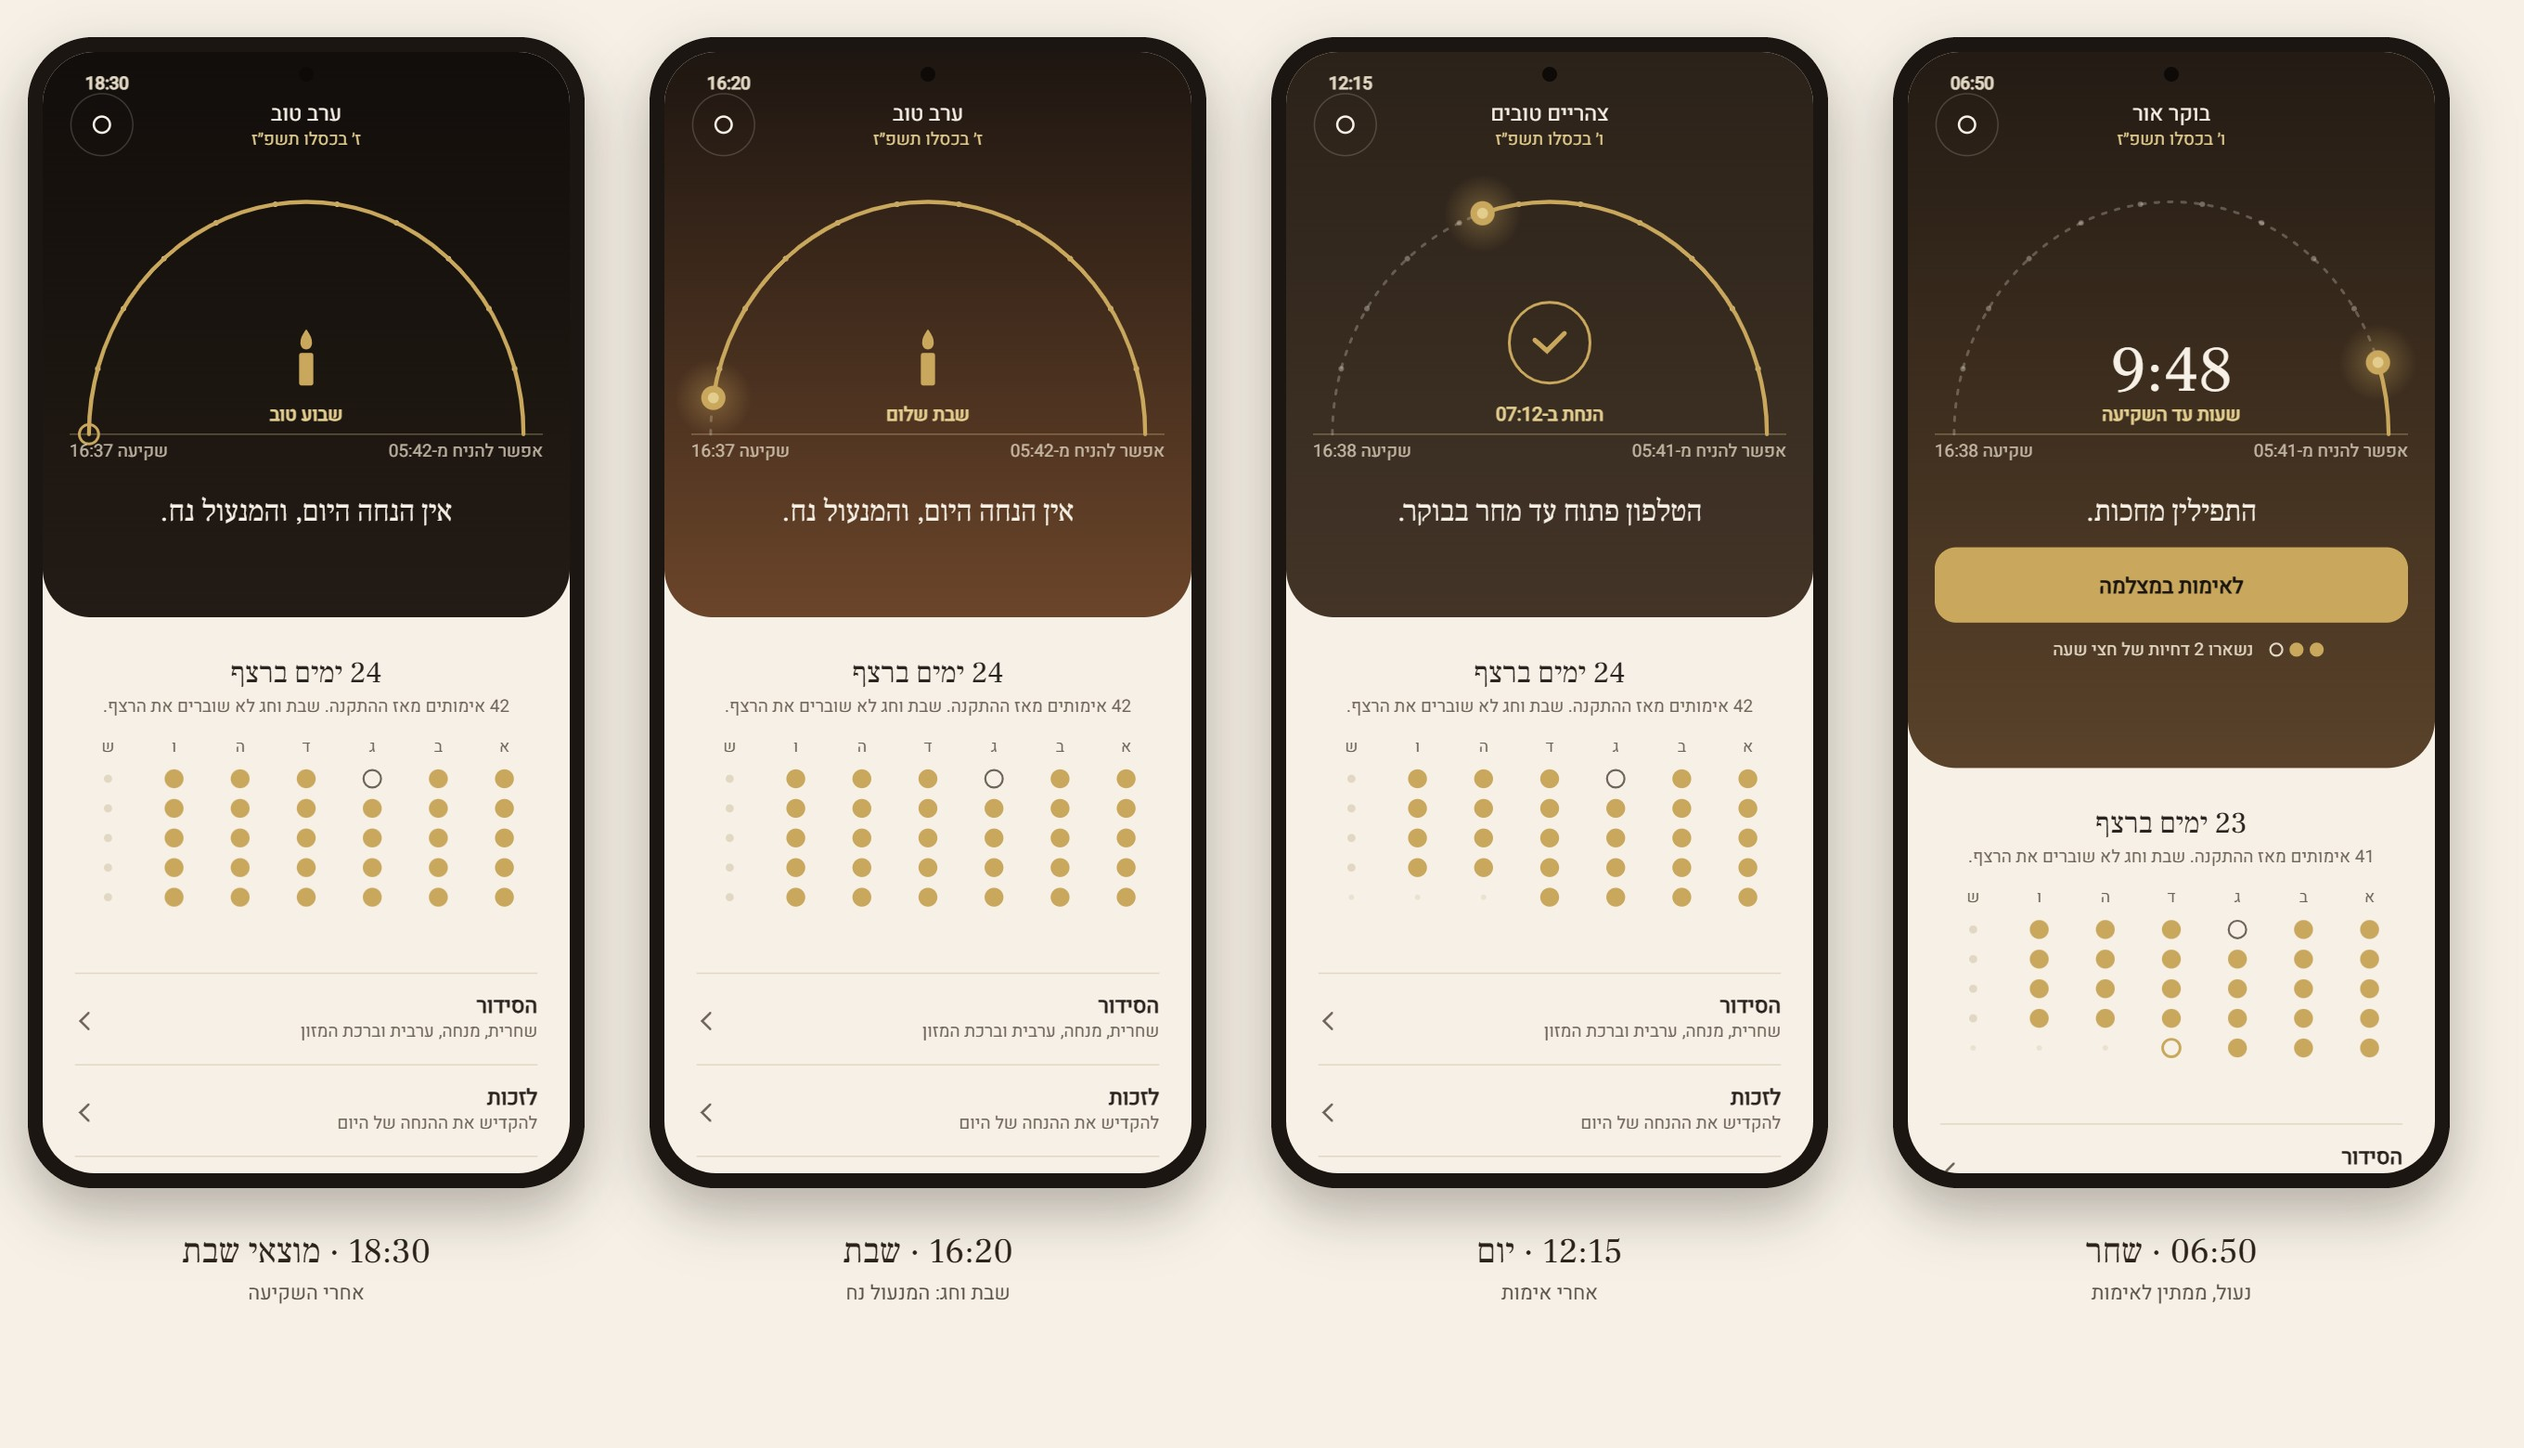
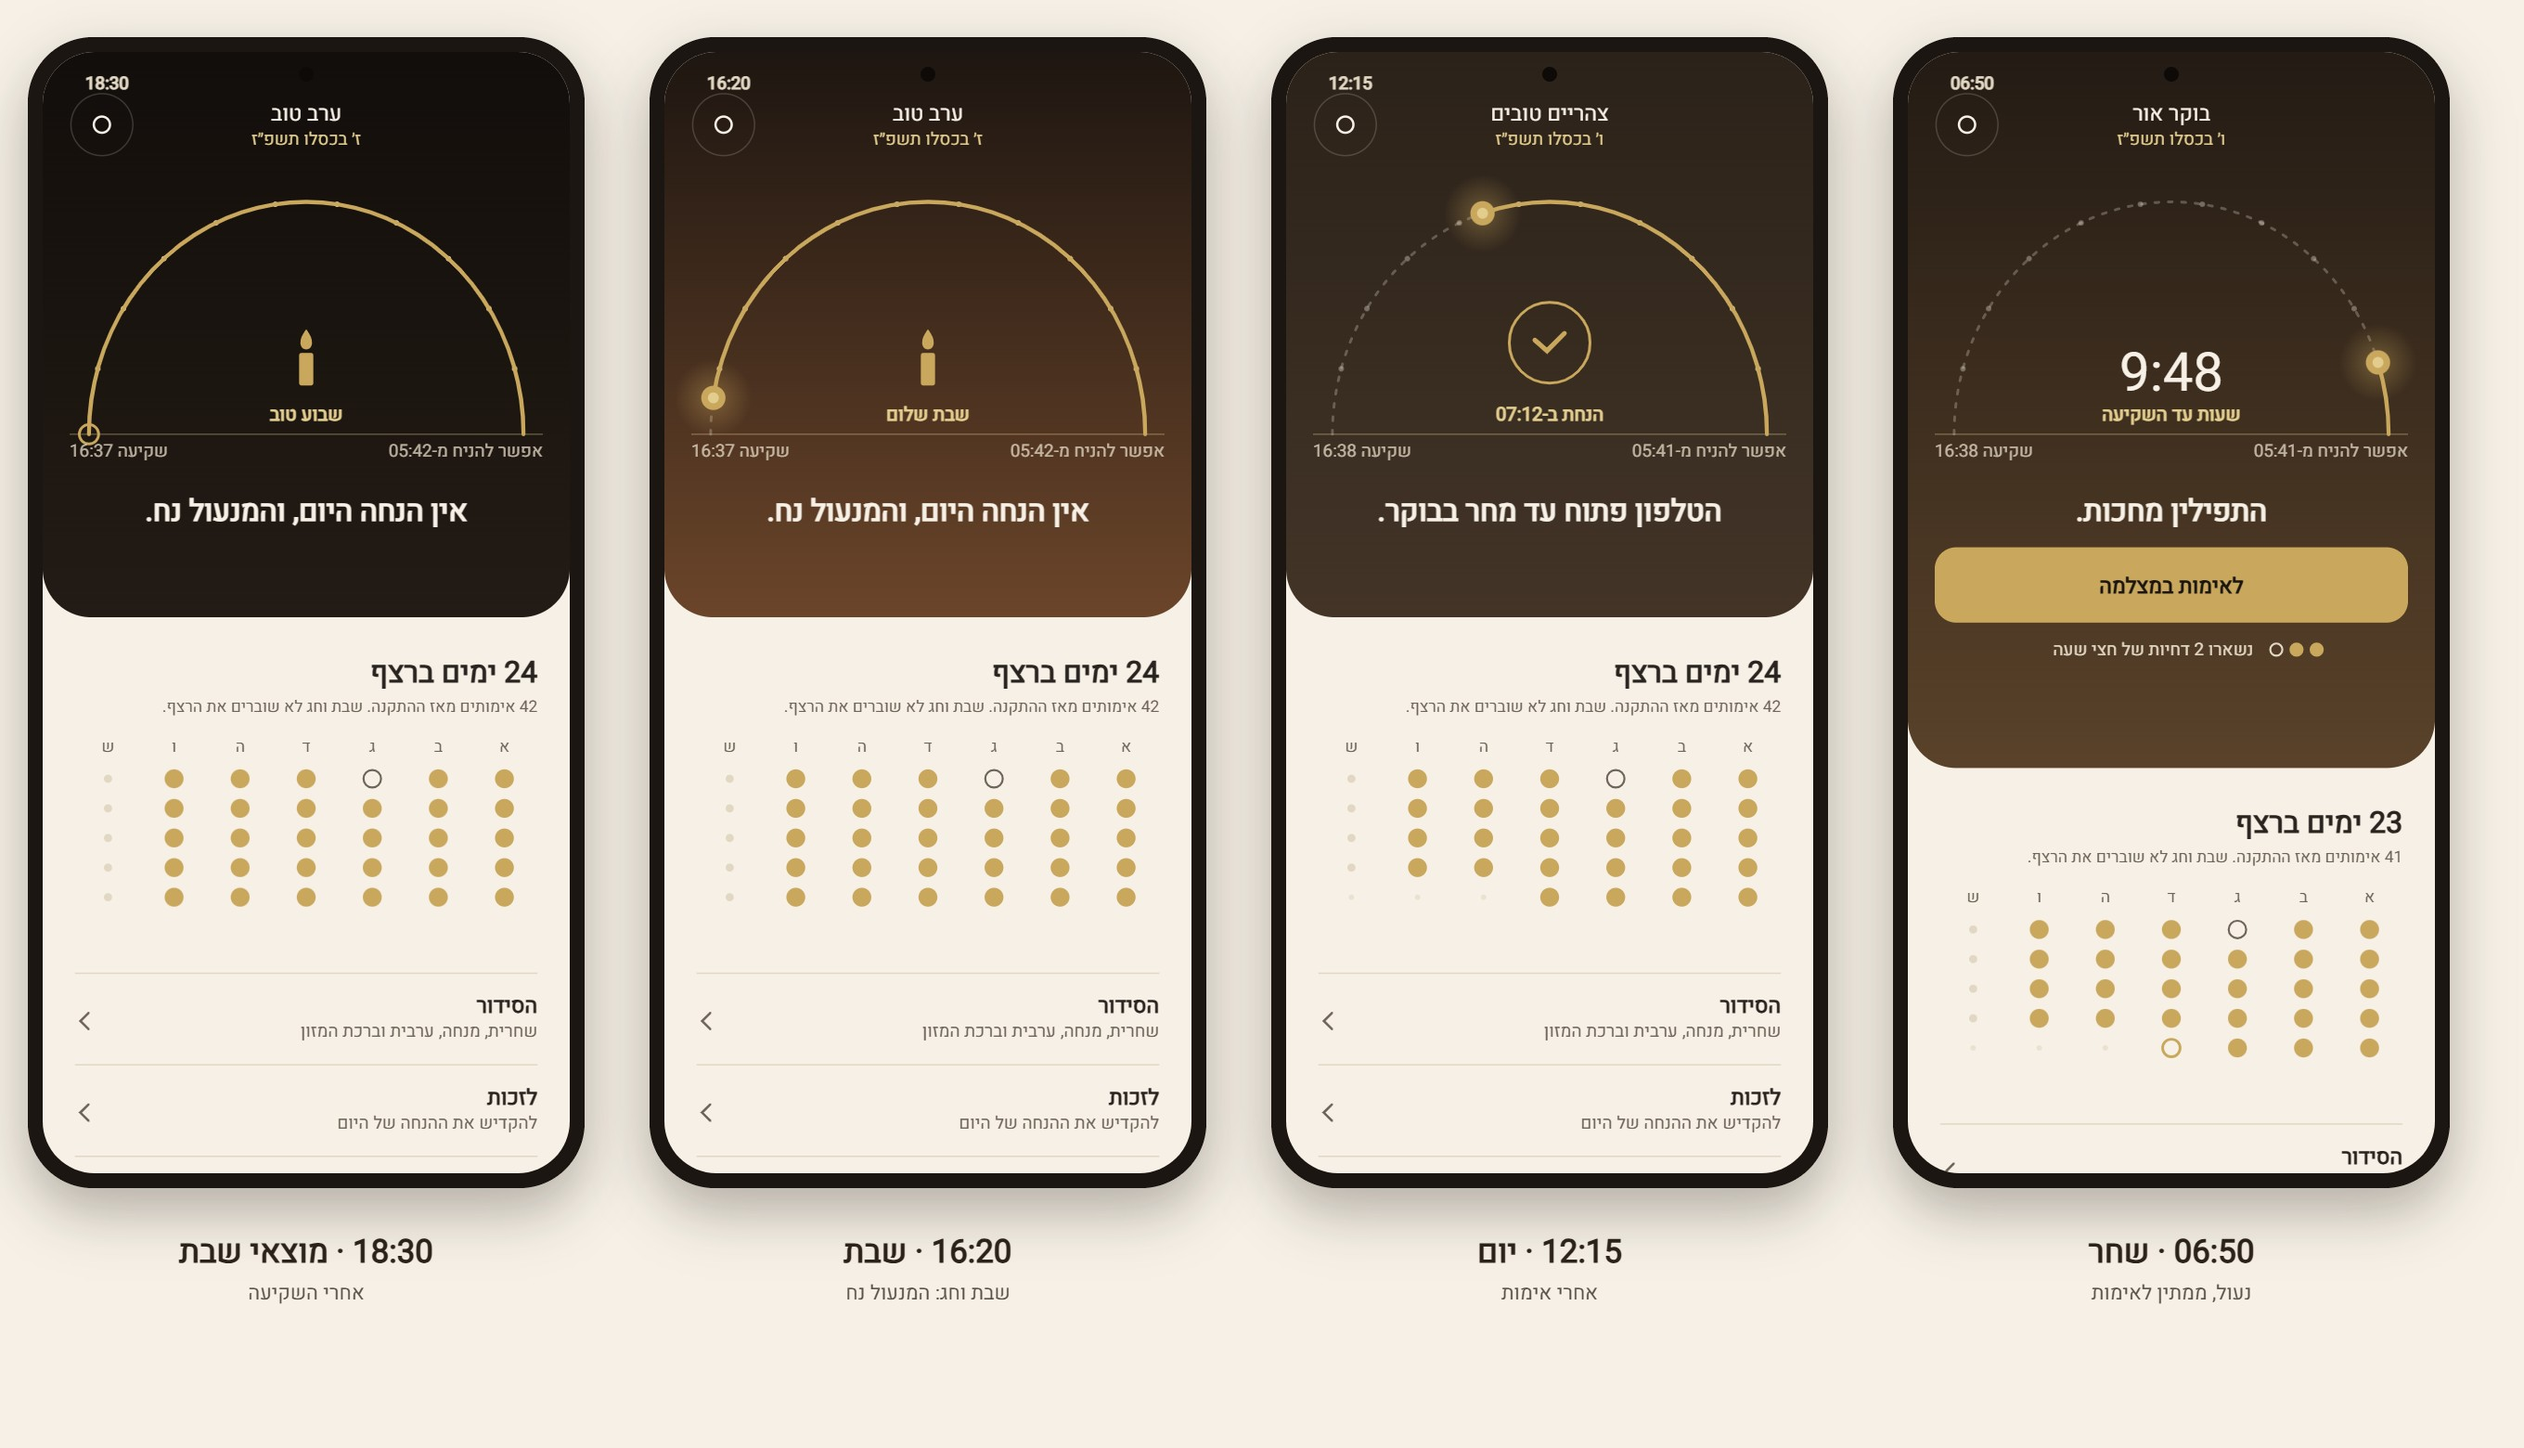
Home preview: one font, streak aligned right [skip ci]

diff --git a/store/home-mock.html b/store/home-mock.html
@@ -47,14 +47,14 @@ function phone(ox, oy, m) {
   const ax = sx + pad, aw = sw - pad * 2, ah = 196 * S;
   sky(ax, y, aw, ah, m.frac, m.hours);
   const by = y + ah - 14 * S;
-  if (m.center === "count") { T(m.big, cx, by - 22 * S, f(48, 500, "FRL"), P.Cream); T(m.cap, cx, by, f(14, 600), P.GoldSoft); }
+  if (m.center === "count") { T(m.big, cx, by - 22 * S, f(40, 500, "Heebo"), P.Cream); T(m.cap, cx, by, f(14, 600), P.GoldSoft); }
   else if (m.center === "check") { dot(cx, by - 58 * S, 30 * S, null, P.Gold, 2 * S); x.strokeStyle = P.Gold; x.lineWidth = 3.5 * S; x.lineCap = "round"; x.beginPath(); x.moveTo(cx + 11 * S, by - 65 * S); x.lineTo(cx - 2 * S, by - 52 * S); x.lineTo(cx - 11 * S, by - 60 * S); x.stroke(); T(m.cap, cx, by, f(14, 600), P.GoldSoft); }
   else if (m.center === "candle") { candle(cx, by - 46 * S, 44 * S); T(m.cap, cx, by, f(14, 600), P.GoldSoft); }
   y += ah;
   T("אפשר להניח מ-" + m.mish, sx + sw - pad, y + 13 * S, f(13, 500), "rgba(226,215,195,0.8)", "right");
   T("שקיעה " + m.sunset, sx + pad, y + 13 * S, f(13, 500), "rgba(226,215,195,0.8)", "left");
   y += 16 * S + 22 * S + 22 * S;
-  T(m.sentence, cx, y, f(22, 500, "FRL"), P.Cream);
+  T(m.sentence, cx, y, f(22, 600, "Heebo"), P.Cream);
   if (m.button) { const bh = 56 * S, bt = y + 20 * S; rr(ax, bt, aw, bh, 16 * S); x.fillStyle = P.Gold; x.fill(); T(m.button, cx, bt + bh / 2 + 6 * S, f(16, 600), P.ChocolateDeep); y = bt + bh; }
   if (m.dots) {
     const ry = y + 24 * S; let px = cx + 108 * S;
@@ -64,8 +64,8 @@ function phone(ox, oy, m) {
   // ---- page below: the streak as a sentence, then the dot calendar, then rows
   const L = sx + 24 * S, R = sx + sw - 24 * S;
   let yy = sy + panelH + 26 * S + 22 * S;
-  T(`${m.streak} ימים ברצף`, cx, yy, f(22, 500, "FRL"), P.Ink);
-  T(`${m.count} אימותים מאז ההתקנה. שבת וחג לא שוברים את הרצף.`, cx, yy + 22 * S, f(13), P.Muted);
+  T(`${m.streak} ימים ברצף`, R, yy, f(22, 600, "Heebo"), P.Ink, "right");
+  T(`${m.count} אימותים מאז ההתקנה. שבת וחג לא שוברים את הרצף.`, R, yy + 22 * S, f(12), P.Muted, "right");
   const colW = (R - L) / 7, colX = i => R - colW * (i + .5);
   ["א", "ב", "ג", "ד", "ה", "ו", "ש"].forEach((l, i) => T(l, colX(i), yy + 52 * S, f(12, 500), P.Muted));
   ["vvmvvvr", "vvvvvvr", "vvvvvvr", "vvvvvvr", m.lastWeek].forEach((wk, w) => [...wk].forEach((k, i) => {
@@ -84,7 +84,7 @@ function phone(ox, oy, m) {
   });
   x.restore();
   dot(ox + pw / 2, oy + 40, 8, "#0d0a08");
-  T(m.label, ox + pw / 2, oy + ph + 80, f(26, 500, "FRL"), P.Chocolate);
+  T(m.label, ox + pw / 2, oy + ph + 80, f(24, 600, "Heebo"), P.Chocolate);
   T(m.sub, ox + pw / 2, oy + ph + 120, f(15), P.InkSoft);
 }
 
